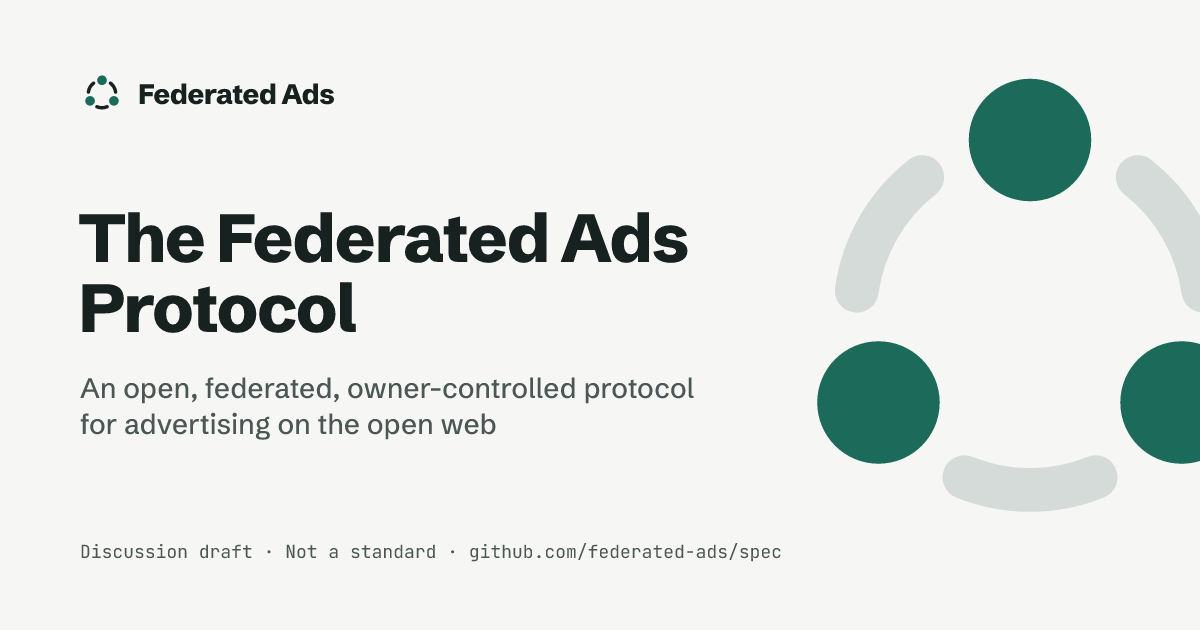
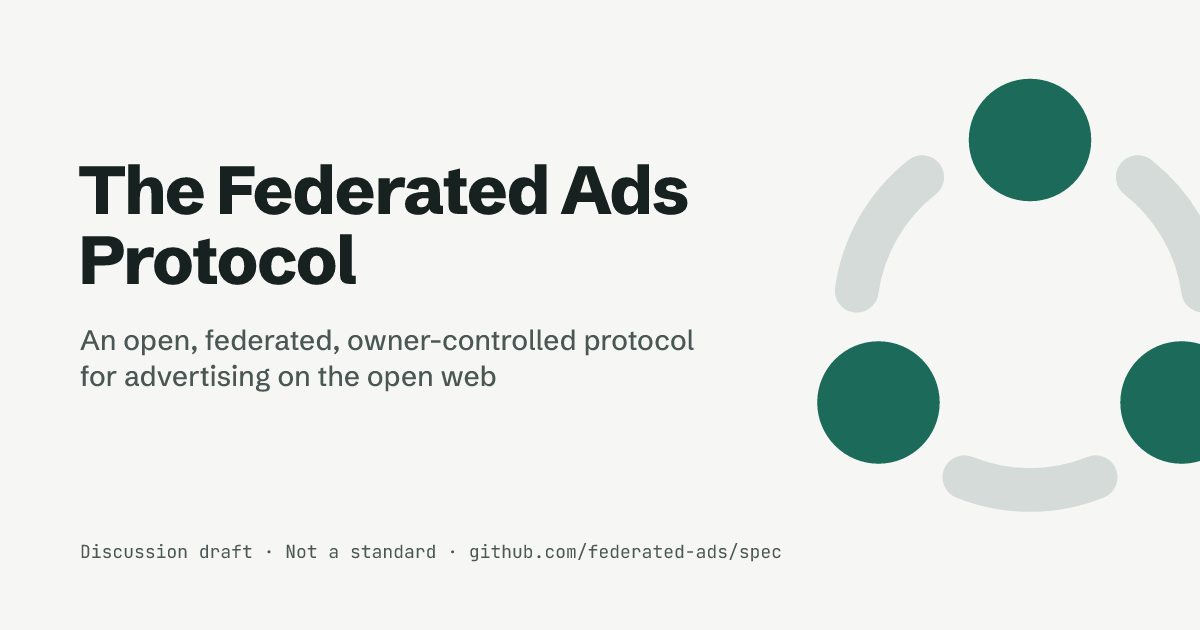
fix(brand): drop the duplicate lockup from the Open Graph card
The card showed the name and the mark twice. Keep the large mark and the title, and move the text block up to rebalance the card.

Changed region(s): [[0.0617, 0.2413, 0.5858, 0.6333], [0.0617, 0.1206, 0.2775, 0.181], [0.0617, 0.6635, 0.4317, 0.6937]]

diff --git a/scripts/build_brand.py b/scripts/build_brand.py
@@ -281,13 +281,12 @@ def og_card(F: dict[str, Face]) -> str:
     W, H = 1200, 630
     L = LIGHT
     parts = [f'<rect width="{W}" height="{H}" fill="{L["paper"]}"/>',
-             mark(L["rule"], L["accent"], "translate(750 35) scale(17.5)"),
-             mark(L["ink"], L["accent"], "translate(80 72) scale(1.375)")]
-    parts.append(F["display"].text(WORDMARK, 28, 138, 104, L["ink"], WORD_TRACK)[0])
-    parts.append(F["display"].text("The Federated Ads", 68, 78, 262, L["ink"], -0.025)[0])
-    parts.append(F["display"].text("Protocol", 68, 78, 332, L["ink"], -0.025)[0])
-    parts.append(F["display-medium"].text("An open, federated, owner-controlled protocol", 28, 80, 398, L["ink-soft"])[0])
-    parts.append(F["display-medium"].text("for advertising on the open web", 28, 80, 434, L["ink-soft"])[0])
+             mark(L["rule"], L["accent"], "translate(750 35) scale(17.5)")]
+    # The large mark and the title already carry the identity, so no small lockup.
+    parts.append(F["display"].text("The Federated Ads", 68, 78, 214, L["ink"], -0.025)[0])
+    parts.append(F["display"].text("Protocol", 68, 78, 284, L["ink"], -0.025)[0])
+    parts.append(F["display-medium"].text("An open, federated, owner-controlled protocol", 28, 80, 350, L["ink-soft"])[0])
+    parts.append(F["display-medium"].text("for advertising on the open web", 28, 80, 386, L["ink-soft"])[0])
     parts.append(F["mono"].text(f"Discussion draft · Not a standard · {SITE_ADDRESS}",
                                 18, 80, 558, L["ink-soft"])[0])
     return svg(W, H, "".join(parts),
